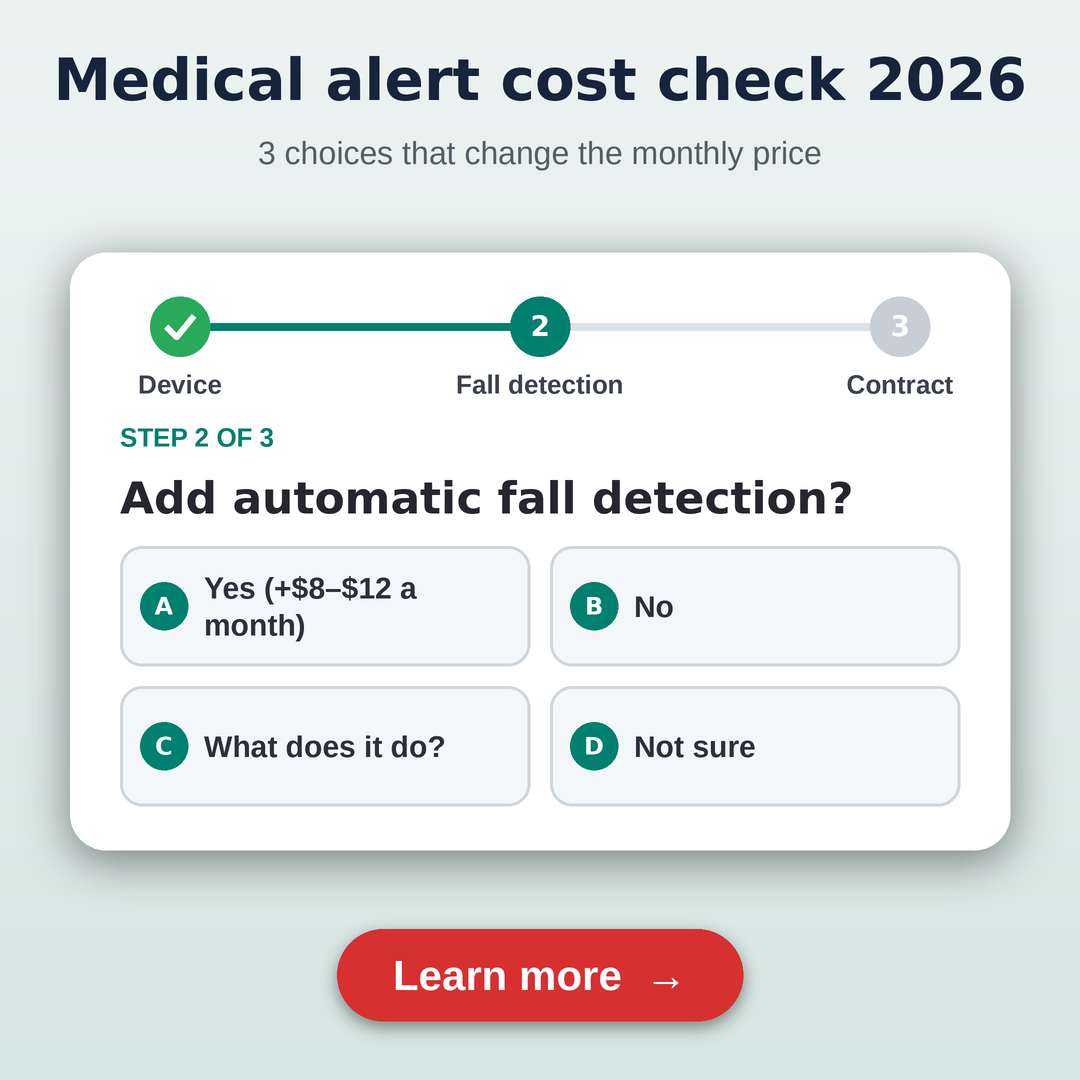
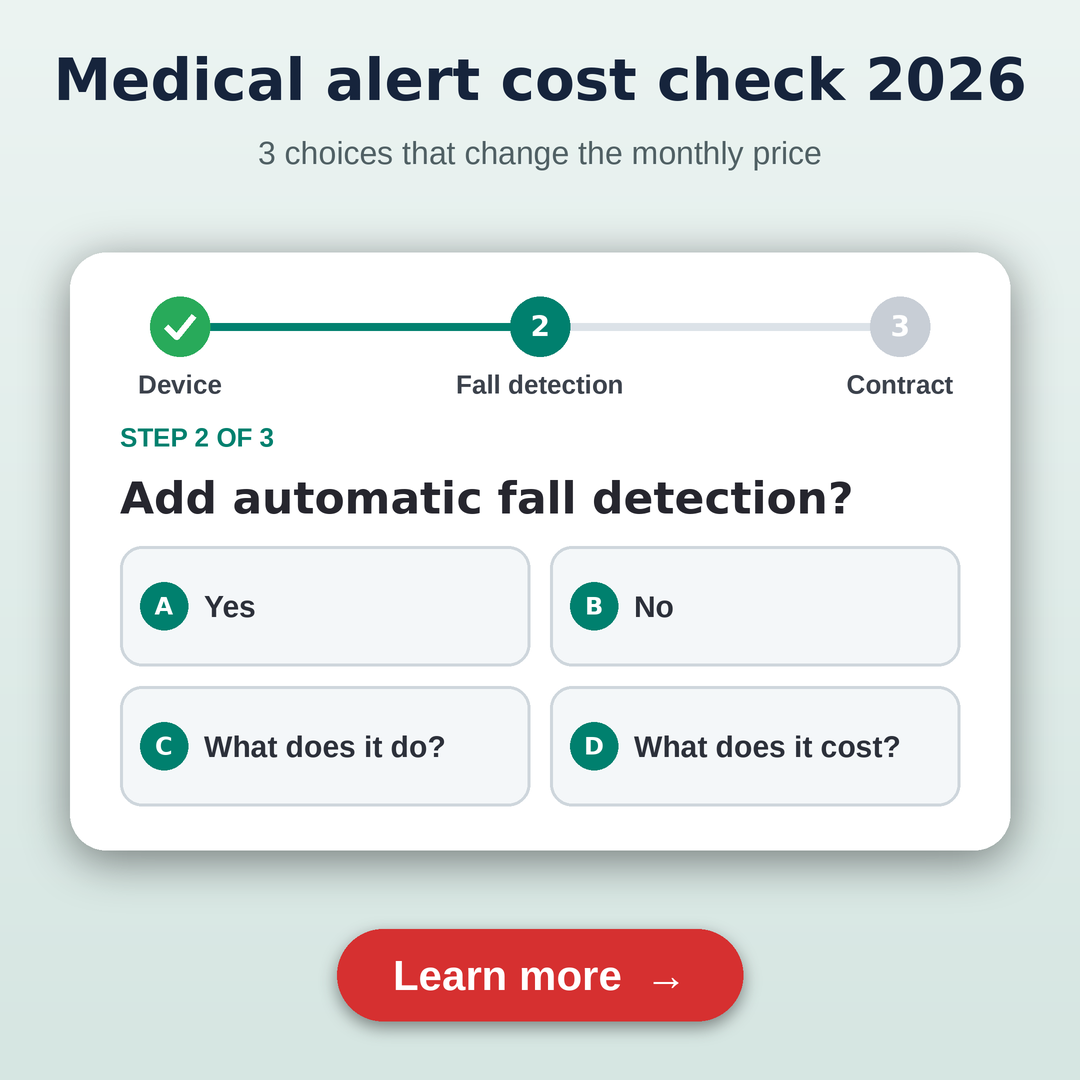
packs: волна 2 — статьи UK/CA 60+ и крео (промежуточный коммит)
Claude-Session: https://claude.ai/code/session_01C37NqGH9zFdyb8ik1XzQDR

Changed region(s): [[0.1833, 0.5194, 0.3972, 0.6111], [0.5806, 0.6722, 0.825, 0.7028]]

diff --git a/creatives/ready/2026-09-30_packs/src/p60w2_packs.py b/creatives/ready/2026-09-30_packs/src/p60w2_packs.py
@@ -57,21 +57,21 @@ PACKS[2] = dict(
     a=dict(layout="row4", title="Senior meal delivery 2026: pick a menu", sub=None, size=58, hero=A.hero_meal, hero_h=360,
            tiles=[("salt", "Low-sodium"), ("drop_check", "Diabetic-\nfriendly"), ("heart_plain", "Heart-healthy"), ("soup_bowl", "Soft-food")],
            note="поднос с обедом сверху, 4 плитки-диеты из статьи (low-sodium / diabetic-friendly / heart-healthy / soft-food)"),
-    b=dict(layout="card2x2", title="What does senior meal delivery cost?", title2="Take a guess", size=56,
+    b=dict(layout="card2x2", title="What does senior meal delivery cost?", title2="Take a guess", sub="2026 guide", size=56,
            tag="PRICE QUIZ", step="Question 1 of 3", prog=0.33,
-           q="A weekly meal plan for seniors in 2026 usually costs…",
-           opts=["Under $40", "$70–$150", "Over $300", "Not sure"],
+           q="One delivered senior meal in 2026 usually costs about…",
+           opts=["Under $3", "$7–$12", "Over $25", "Not sure"],
            pal=dict(bg=(46, 110, 60), bg2=(24, 64, 36), ink=WH, sub=(214, 234, 214), acc=GREEN2, t2=(255, 214, 102), deco=True),
-           note="ценовой квиз; верный ответ $70–150/неделя — из гипотезы (общий рыночный ориентир), остальное — варианты-отвлекалки"),
+           note="ценовой квиз; верный ответ $7–12 за порцию — ориентир 2026 из гипотезы и статьи, остальное — варианты-отвлекалки"),
     c=dict(layout="split", title="Fresh or frozen meal delivery?", sub="Senior meals: about $7–$12 each (US guide, 2026)", size=54,
            cols=[("FRESH", "meal_plate", GREEN2, ["Delivered on a schedule", "Just reheat and eat", "Shorter shelf life"]),
                  ("FROZEN", "snowflake", BLUE2, ["Longer shelf life", "Eat when it suits", "A little less fresh"])],
            pal=dict(bg=(248, 245, 236)), note="две половины: свежие против замороженных (свойства из статьи), $7–12 за порцию — из гипотезы"),
     d=dict(style="top", scene="w2_doorstep_meals", kicker="MEAL DELIVERY FOR SENIORS 2026",
-           title="Ready-made meals at the door: what a week costs", sub="Fresh or frozen, special diets, Meals on Wheels",
-           size=58, sticker="$70–$150 a week", sticker_xy=(905, 470, 100), btn_y=1000,
+           title="Ready-made meals at the door: what one really costs", sub="Fresh or frozen, special diets, Meals on Wheels",
+           size=58, sticker="$7–$12 a meal", sticker_xy=(905, 470, 100), btn_y=1000,
            pal=dict(ink=INK2, sub=(80, 88, 80), acc=TOM, sticker=(255, 208, 60)),
-           note="крыльцо: дверь, термосумка и контейнеры на скамейке, жёлтый стикер с ценой недели"),
+           note="крыльцо: дверь, термосумка и контейнеры на скамейке, жёлтый стикер с ценой порции (ориентир 2026)"),
 )
 
 # ---------------------------------------------------------------- 3. US · завещание и доверенность
@@ -106,7 +106,7 @@ PACKS[4] = dict(
     doc="P60-hearing-aids-us-2026-09-30", cta="Learn more",
     pal=dict(bg=(238, 245, 250), ink=NAVY4, sub=(80, 96, 116), acc=BLUE4, btn=AMB4, tile=WH, tile_ink=NAVY4,
              icon=BLUE4, iconbg=(222, 236, 248), hl=(255, 220, 110)),
-    a=dict(layout="row2", title="Hearing aids 2026: OTC or prescription?", sub="Price per pair – US guide", size=58,
+    a=dict(layout="row2", title="Hearing aids 2026: OTC or prescription?", sub="Price per pair – 2026 guide", size=58,
            hero=A.hero_hearing, hero_h=360, tiles=[("otc_box", "OTC"), ("bte_aid", "Prescription")],
            foot="Does Medicare pay? The 2026 answer",
            note="сетка из 2 вариантов; ценники $200–3,000 и $2,000–7,000+ за пару — из sourceNote (HearingTracker 2026)"),
@@ -116,7 +116,7 @@ PACKS[4] = dict(
            opts=["Yes, in full", "Half the cost", "Generally no", "Not sure"],
            pal=dict(bg=(24, 70, 130), bg2=(12, 36, 76), ink=WH, sub=(206, 222, 240), acc=BLUE4, deco=True),
            note="вопрос о покрытии Medicare, не о слухе зрителя (ответ в статье: как правило, нет)"),
-    c=dict(layout="table", title="OTC vs prescription hearing aids", sub="The 2026 price gap, side by side", size=54,
+    c=dict(layout="table", title="OTC vs prescription hearing aids", sub="Price per pair – 2026 guide", size=54,
            cols=[("OTC", "otc_box", (90, 100, 116)), ("Prescription", "bte_aid", BLUE4)],
            rows=[("Price per pair", "$200–$3,000", "$2,000–$7,000+"), ("Prescription", "not needed", "needed"),
                  ("Fitting", "no professional fitting", "fitted by an audiologist"),
@@ -141,17 +141,17 @@ PACKS[5] = dict(
     b=dict(layout="calc", title="Medical alert cost check 2026", sub="3 choices that change the monthly price", size=58,
            steps=[("Device", "done"), ("Fall detection", "now"), ("Contract", "todo")],
            tag="STEP 2 OF 3", step="", prog=0.66, q="Add automatic fall detection?",
-           opts=["Yes (+$8–$12 a month)", "No", "What does it do?", "Not sure"],
+           opts=["Yes", "No", "What does it do?", "What does it cost?"],
            pal=dict(bg=(236, 244, 242), bg2=(214, 230, 226), ink=NAVY5, sub=(80, 96, 100), acc=TEAL5, btn=RED5),
-           note="форма-калькулятор со степпером; +$8–12/мес за fall detection — из sourceNote (NCOA, The Senior List, SafeHome)"),
-    c=dict(layout="bars", title="What does a medical alert system cost?", sub="Typical monthly prices in 2026 (US guide)", size=54,
+           note="форма-калькулятор со степпером; цены на карточке нет (главный 29.09: только $20–60/мес с пометкой «2026 guide»)"),
+    c=dict(layout="bars", title="What does a medical alert system cost?", sub="Typical monthly prices – 2026 US guide", size=54,
            bill="MONTHLY BILL", bill_r="2026",
-           bars=[("Monitoring plan", 0.8, "$20–$60", NAVY5), ("Fall detection add-on", 0.36, "+$8–$12", TEAL5),
+           bars=[("Monitoring plan", 0.8, "$20–$60", NAVY5), ("Fall detection add-on", None, "extra per month", TEAL5),
                  ("Equipment or activation fee", None, "$0 or a one-time fee", AMB5)],
            foot="Many plans are month-to-month", pal=dict(acc=NAVY5),
-           note="«счёт за месяц»: $20–60 абонплата, +$8–12 fall detection — из гипотезы; сбор за устройство — «$0 или разовый» (как в статье)"),
+           note="«счёт за месяц»: $20–60 абонплата (ориентир 2026 из гипотезы); fall detection и сбор за устройство — «?»"),
     d=dict(style="left", scene="w2_nightstand_alert", y=60, x=70,
-           bars=[("HELP IS ONE", WH, RED5), ("BUTTON AWAY.", WH, RED5), ("WHAT DOES IT", NAVY5, None), ("COST IN 2026?", NAVY5, None)],
+           bars=[("MEDICAL ALERT", WH, RED5), ("SYSTEMS 2026:", WH, RED5), ("WHAT DOES 24/7", NAVY5, None), ("MONITORING COST?", NAVY5, None)],
            bar_size=96, cond=0.8, btn_y=575, btn_size=44, max_w=640, pal=dict(btn=TEAL5),
            note="плашки слева + спальня: тумбочка с базовой станцией и кулоном, лампа, край кровати; без людей"),
 )
@@ -172,7 +172,7 @@ PACKS[6] = dict(
            opts=["Yes, for close-up", "No, never again", "Only for driving", "Not sure"],
            pal=dict(bg=(60, 46, 150), bg2=(30, 22, 90), ink=WH, sub=(220, 216, 246), acc=IND, t2=INK6, hl=YEL6, deco=True),
            note="вопрос про линзу и очки, не про зрение зрителя (ответ в статье: да, для чтения)"),
-    c=dict(layout="split", title="NHS or private cataract surgery?", sub="The 2026 numbers side by side", size=54, diag=30,
+    c=dict(layout="split", title="NHS or private cataract surgery?", sub="2026 guide figures, side by side", size=54, diag=30,
            cols=[("NHS", "eye", IND, ["No direct cost if eligible", "About 12–18 weeks' wait", "Standard monofocal lens"]),
                  ("PRIVATE", "pound_tag", (40, 36, 60), ["£2,500–£5,500 per eye", "Premium lens options", "Toric: +£300–£500 per eye"])],
            pal=dict(bg=(248, 246, 252), ink=INK6, btn=AMB6, vs_bg=AMB6, vs_ink=WH),

diff --git a/creatives/ready/2026-09-30_packs/src/w2b_packs.py b/creatives/ready/2026-09-30_packs/src/w2b_packs.py
@@ -164,23 +164,23 @@ ROSE6, BLUE6, INK6 = (200, 76, 80), (40, 90, 150), (40, 36, 60)
 PACKS[6] = dict(
     doc="NT-psy-couples-fr-2026-09-30", cta="En savoir plus",
     pal=dict(bg=(252, 240, 236), ink=INK6, sub=(100, 90, 96), acc=ROSE6, btn=ROSE6, tile=WH, tile_ink=INK6, icon=BLUE6, iconbg=(236, 242, 250)),
-    a=dict(fn="grid", layout="2x2", title="Test de couple : 15 questions", sub="Ce que regardent les thérapeutes. Choisissez un thème :", size=60,
+    a=dict(fn="grid", layout="2x2", title="Test de couple\u00a0: 15\u00a0questions", sub="Ce que regardent les thérapeutes. Choisissez un thème\u00a0:", size=60,
            tiles=[("talk", "Communication"), ("padlock", "Confiance"), ("compass", "Projets"), ("storm", "Disputes")],
            note="2×2 тем теста (из текста гипотезы); без «ваша пара»"),
-    b=dict(fn="quiz", layout="card", title="Test de couple en 15 questions", title2="Ce que regardent les thérapeutes", size=56,
+    b=dict(fn="quiz", layout="card", title="Test de couple en 15\u00a0questions", title2="Ce que regardent les thérapeutes", size=56,
            tag="TEST", step="Question 1 sur 15", prog=1 / 15,
-           q="Selon les thérapeutes, qu'est-ce qui compte le plus après une dispute ?",
+           q="Selon les thérapeutes, qu'est-ce qui compte le plus après une dispute\u00a0?",
            opts=["Savoir qui a raison", "Qui fait le premier pas", "Oublier très vite", "En reparler au calme"],
            pal=dict(bg=(200, 80, 84), bg2=(120, 40, 60), ink=WH, sub=(250, 220, 220), acc=ROSE6, t2=(255, 222, 150), deco=True, btn=BLUE6),
            note="вопрос о мнении терапевтов, не о паре зрителя"),
-    c=dict(fn="compare", layout="table", title="Thérapie de couple 2026 : combien ça coûte ?", sub="En cabinet ou en ligne – ce qui change", size=54,
+    c=dict(fn="compare", layout="table", title="Thérapie de couple 2026\u00a0: combien ça coûte\u00a0?", sub="En cabinet ou en ligne – ce qui change", size=54,
            cols=[("En cabinet", "armchair", (170, 70, 70)), ("En ligne", "laptop", BLUE6)],
            rows=[("Prix d'une séance", "?", "?"), ("Où", "chez le thérapeute", "à la maison, en visio"), ("Remboursement", "?", "?")],
            foot="Le test complet + les prix 2026", pal=dict(bg=(250, 246, 242), acc=ROSE6, hl=(255, 222, 150)),
            note="таблица кабинет / онлайн: цены и возмещение — «?»"),
     d=dict(fn="scene_d", scene="scene_mugs", style="top", size=66, y=48,
-           title="Test de couple : 15 questions", sub="Ce que regardent les thérapeutes", sub_size=36,
-           btn_y=330, btn_size=42,
+           title="Test de couple\u00a0: 15\u00a0questions", sub="Ce que regardent les thérapeutes", sub_size=36,
+           btn_y=372, btn_size=42,
            note="две кружки ручками в разные стороны и карточка «15 questions» (визуал из брифа гипотезы); людей и колец нет"),
 )
 

diff --git a/creatives/ready/2026-09-30_packs/src/w2b_scenes.py b/creatives/ready/2026-09-30_packs/src/w2b_scenes.py
@@ -321,7 +321,7 @@ def mug(c, cx, by, s, col, handle="right", inner=(90, 60, 40)):
 
 def scene_mugs(c, table_y=700):
     c.vgrad((0, 0, W, table_y), (248, 232, 222), (240, 214, 200))
-    window(c, (640, 400, 960, 650), sky0=(190, 220, 236), sky1=(236, 244, 248), frame=(255, 250, 244))
+    window(c, (660, 470, 940, 668), sky0=(190, 220, 236), sky1=(236, 244, 248), frame=(255, 250, 244))
     S.plant(c, 180, table_y - 4, 0.9, pot=(90, 140, 160), leaf=(70, 140, 100))
     c.rect((0, table_y, W, W), fill=(214, 170, 130))
     S.wood(c, (0, table_y, W, W), (220, 178, 138), (196, 150, 108), lines=7, seed=9)

diff --git a/creatives/ready/2026-09-30_packs/src/p60w2_art.py b/creatives/ready/2026-09-30_packs/src/p60w2_art.py
@@ -721,6 +721,7 @@ def hearing_table(c, table_y=690):
         c.poly(pts, col)
         c.circle(x - 2, y, 6, fill=WH)
         c.text((x + 16, y), lab, "db", 34, WH, anchor="lm")
+    c.text((60, 1040), "Price per pair · 2026 US guide", "s", 24, (90, 96, 110))
     # чашка и растение
     S.teacup(c, 990, 990, 0.7, rim=NAVY)
     S.plant(c, 60, 700, 0.6, pot=(90, 140, 190))
